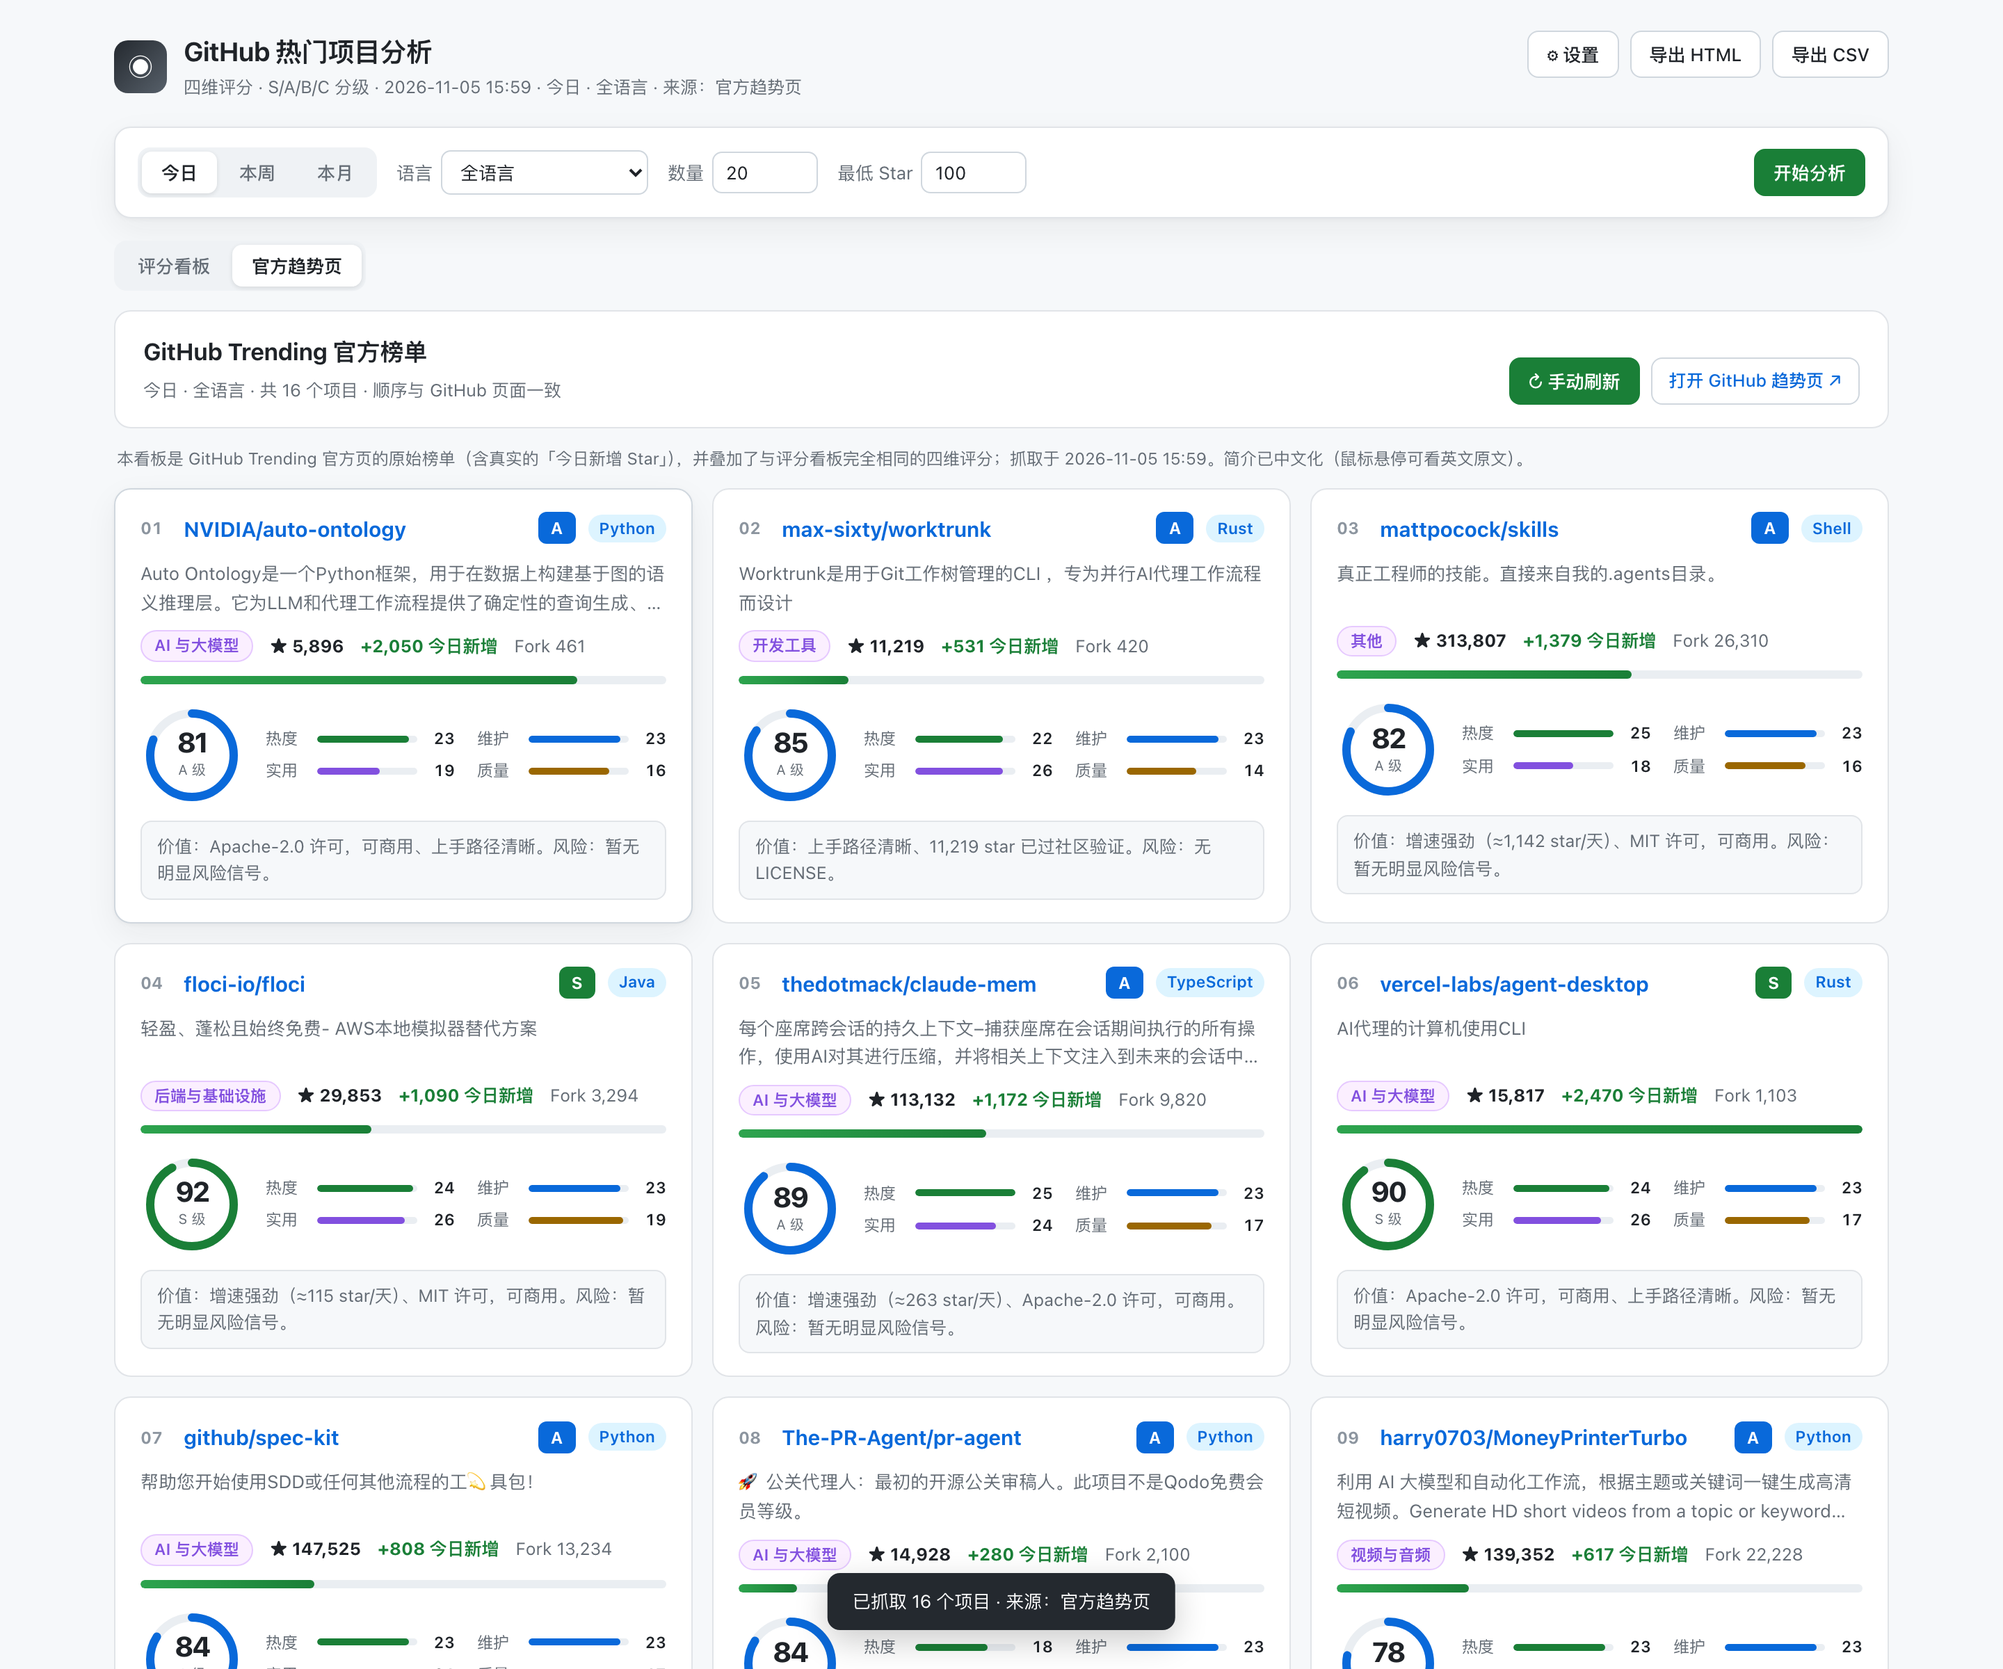
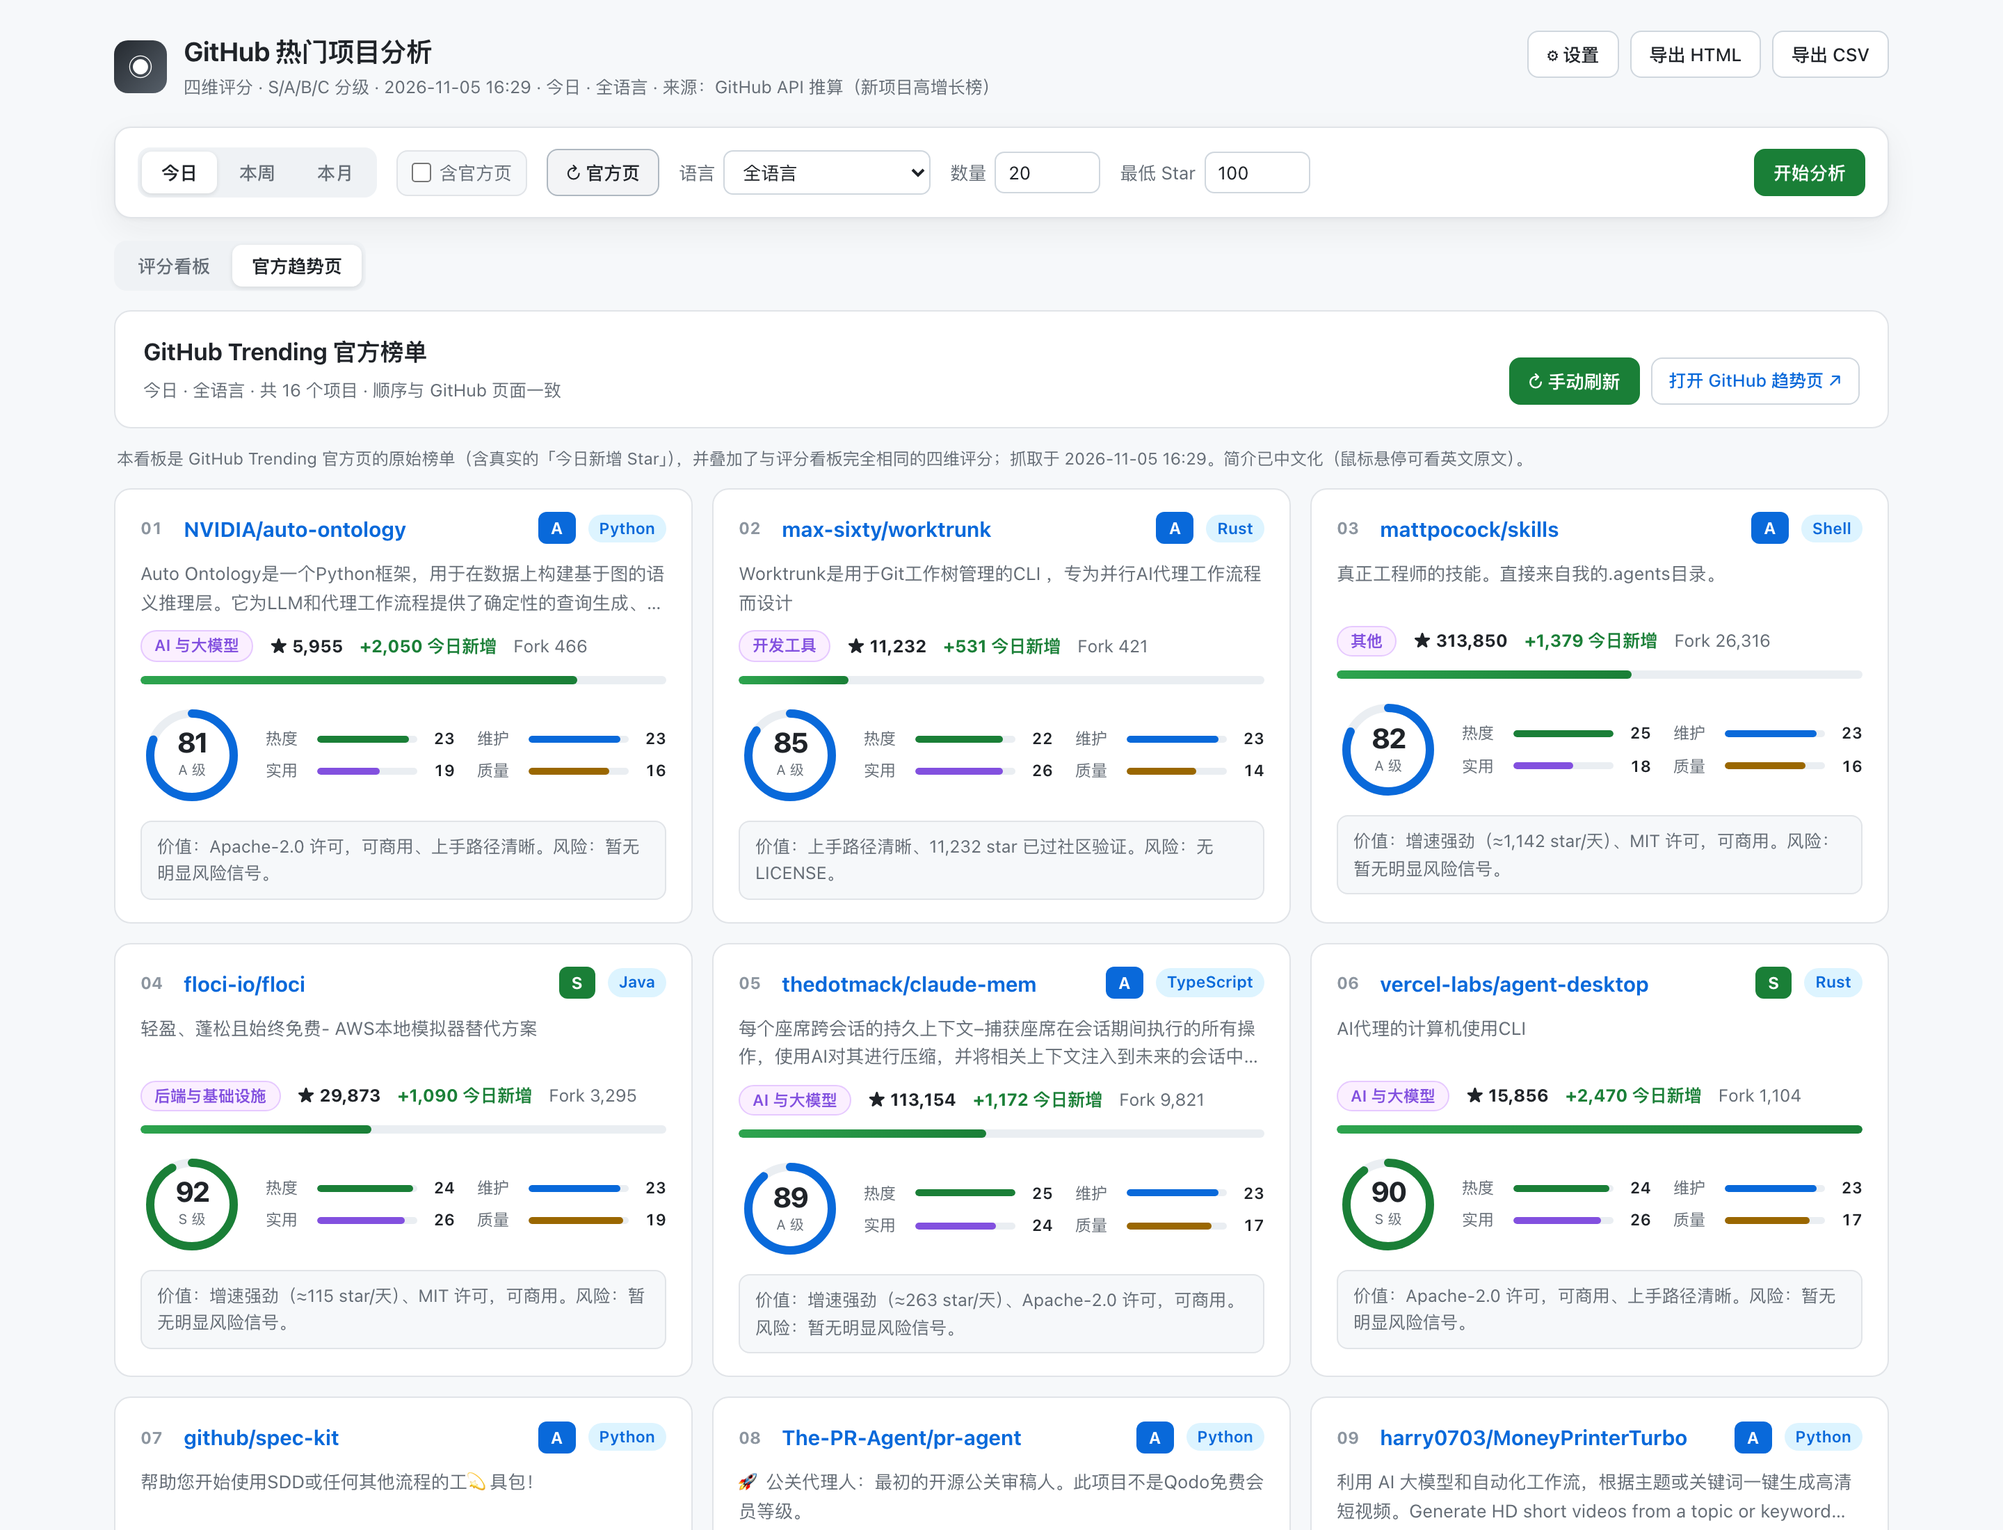
feat(app): 分析结果持久化 + 官方页开关与顶部独立刷新按钮
- 分析结果写入 cache/last-result.json，重开应用自动恢复上次结果与所在视图
- 新增 GET /api/last，导出按钮随恢复结果一并可用
- 周期旁新增「含官方页」开关：关闭时本次分析跳过官方页、直接 API 推算评分
- 周期旁新增「↻ 官方页」按钮：单独只刷新官方榜单，复用已有评分，自动切到官方视图
- official_skipped 状态单独标注，缓存快照不再被误报成"刷新失败"
- 开关、视图等偏好持久化；GET 备用通道同步传递开关值
- README 与预览图更新；发布前完成脱敏

同步前已完成脱敏：移除个人绝对路径与本地环境描述

diff --git a/app/templates/index.html b/app/templates/index.html
@@ -44,6 +44,9 @@
   .seg button{border:none;background:transparent;padding:6px 14px;border-radius:7px;color:var(--muted);font-weight:500}
   .seg button.on{background:#fff;color:var(--text);font-weight:600;box-shadow:0 1px 3px rgba(27,31,36,.12)}
   .controls label{display:flex;align-items:center;gap:6px;font-size:13px;color:var(--muted)}
+  .off-switch{white-space:nowrap;cursor:pointer;user-select:none;border:1px solid var(--border);
+    background:#f6f8fa;border-radius:8px;padding:5px 10px;color:var(--text)}
+  .off-switch input{width:14px;height:14px;margin:0;accent-color:var(--green);cursor:pointer}
   select,input[type=number],input[type=text],input[type=password]{
     font-family:inherit;font-size:13px;color:var(--text);background:#fff;border:1px solid var(--border-strong);
     border-radius:7px;padding:6px 9px;outline:none}
@@ -199,6 +202,10 @@
       <button data-v="weekly">本周</button>
       <button data-v="monthly">本月</button>
     </div>
+    <label class="off-switch" title="关闭后，点「开始分析」不再抓取官方趋势页，直接用 API 推算评分">
+      <input type="checkbox" id="includeOfficial" checked> 含官方页
+    </label>
+    <button id="btnOfficialTop" title="只刷新官方趋势页（复用已有评分），并自动切到该视图">↻ 官方页</button>
     <label>语言
       <select id="lang">
         <option value="">全语言</option>
@@ -292,13 +299,31 @@ function loadPrefs(){
     if(p.minStars !== undefined) $('#minStars').value = p.minStars;
     if(p.token) $('#token').value = p.token;
     if(p.src) $('#src').value = p.src;
+    if(p.includeOfficial !== undefined) $('#includeOfficial').checked = !!p.includeOfficial;
+    if(p.view === 'official' || p.view === 'board') state.view = p.view;
   }catch(e){}
 }
 function savePrefs(){
   localStorage.setItem(LS, JSON.stringify({
     period: state.period, language: $('#lang').value, limit: $('#limit').value,
-    minStars: $('#minStars').value, token: $('#token').value, src: $('#src').value
+    minStars: $('#minStars').value, token: $('#token').value, src: $('#src').value,
+    includeOfficial: $('#includeOfficial').checked, view: state.view
   }));
+}
+
+/* 启动恢复：把服务端持久化的上一次分析结果直接渲染出来 */
+async function restoreLast(){
+  try{
+    const res = await fetch('/api/last');
+    const d = await res.json();
+    if(!d || d.empty || !Array.isArray(d.items)) return;
+    state.data = d;
+    state.cat = '';
+    $('#btnHtml').disabled = false; $('#btnCsv').disabled = false;
+    [...$('#viewSeg').children].forEach(x=>x.classList.toggle('on', x.dataset.v === state.view));
+    render();
+    toast(`已恢复上次分析（${d.generated_at}）`);
+  }catch(e){ /* 没有历史结果时静默 */ }
 }
 
 /* ---------- 交互 ---------- */
@@ -307,14 +332,17 @@ $('#seg').addEventListener('click', e=>{
   [...$('#seg').children].forEach(x=>x.classList.toggle('on', x===b));
   state.period = b.dataset.v; savePrefs();
 });
+$('#includeOfficial').addEventListener('change', savePrefs);
 $('#viewSeg').addEventListener('click', e=>{
   const b = e.target.closest('button'); if(!b) return;
   [...$('#viewSeg').children].forEach(x=>x.classList.toggle('on', x===b));
   state.view = b.dataset.v;
+  savePrefs();
   render();
 });
-$('#officialPanel').addEventListener('click', async e=>{
-  const btn = e.target.closest('#btnOfficialRefresh'); if(!btn) return;
+
+/* 两个入口共用：只刷新官方榜单，复用已有评分，不重跑评分流程 */
+async function refreshOfficial(btn){
   const old = btn.textContent;
   btn.disabled = true; btn.textContent = '刷新中…';
   try{
@@ -325,14 +353,25 @@ $('#officialPanel').addEventListener('click', async e=>{
       {headers:{'X-GitHub-Token': $('#token').value || ''}});
     const d2 = await res.json();
     if(!res.ok) throw new Error(d2.message || ('HTTP ' + res.status));
-    if(state.data){
-      state.data.official_items = d2.items;
-      state.data.official_fetched_at = d2.fetched_at;
-      state.data.official_stale = d2.stale;
-      state.data.official_url = d2.url;
-      state.data.official_period = d2.period;
-      state.data.official_language = d2.language;
-      if(typeof d2.meta_coverage === 'number') state.data.meta_coverage = d2.meta_coverage;
+    if(!state.data){
+      state.data = {
+        generated_at: d2.fetched_at, period: d2.period,
+        period_label: {daily:'今日', weekly:'本周', monthly:'本月'}[d2.period],
+        language: d2.language, source: 'api', source_label: '官方趋势页（独立刷新）',
+        items: [], readme_coverage: 100, board_meta_coverage: 100, translate_status: 'ok'
+      };
+    }
+    state.data.official_items = d2.items;
+    state.data.official_fetched_at = d2.fetched_at;
+    state.data.official_stale = d2.stale;
+    state.data.official_url = d2.url;
+    state.data.official_period = d2.period;
+    state.data.official_language = d2.language;
+    if(typeof d2.meta_coverage === 'number') state.data.meta_coverage = d2.meta_coverage;
+    if(btn.id === 'btnOfficialTop'){       // 顶部按钮点了直接看结果
+      state.view = 'official';
+      [...$('#viewSeg').children].forEach(x=>x.classList.toggle('on', x.dataset.v === 'official'));
+      savePrefs();
     }
     render();
     toast(d2.message);
@@ -341,7 +380,12 @@ $('#officialPanel').addEventListener('click', async e=>{
   }finally{
     btn.disabled = false; btn.textContent = old;
   }
+}
+$('#officialPanel').addEventListener('click', e=>{
+  const btn = e.target.closest('#btnOfficialRefresh'); if(!btn) return;
+  refreshOfficial(btn);
 });
+$('#btnOfficialTop').addEventListener('click', e=> refreshOfficial(e.currentTarget));
 $('#chips').addEventListener('click', e=>{
   const c = e.target.closest('.chip'); if(!c) return;
   [...$('#chips').children].forEach(x=>x.classList.toggle('on', x===c));
@@ -393,7 +437,8 @@ async function run(){
       limit: parseInt($('#limit').value) || 20,
       min_stars: parseInt($('#minStars').value) || 0,
       token: $('#token').value,
-      source: $('#src').value
+      source: $('#src').value,
+      include_official: $('#includeOfficial').checked
     };
     let data;
     try{
@@ -406,7 +451,8 @@ async function run(){
       // POST 被拦截或失败时，自动走 GET 备用通道
       const qs = new URLSearchParams({
         period: body.period, language: body.language, limit: body.limit,
-        min_stars: body.min_stars, source: body.source
+        min_stars: body.min_stars, source: body.source,
+        include_official: body.include_official ? 1 : 0
       });
       const res2 = await fetch('/api/analyze?' + qs, {headers:{'X-GitHub-Token': body.token || ''}});
       const d2 = await res2.json();
@@ -498,9 +544,12 @@ function renderOfficial(d){
     </div>`;
     return;
   }
-  const staleNote = d.official_stale
+  const staleNote = (d.official_skipped && d.official_stale)
     ? `<div class="official-note" style="color:var(--amber);background:var(--amber-soft);border:1px solid #eac54f;
-        border-radius:8px;padding:8px 12px">本次实时刷新失败，以下为缓存于 ${escapeHtml(d.official_fetched_at || '未知时间')} 的官方榜单快照。可点「手动刷新」重试。</div>`
+        border-radius:8px;padding:8px 12px">本次分析未抓取官方趋势页（「含官方页」已关闭），以下为缓存于 ${escapeHtml(d.official_fetched_at || '未知时间')} 的快照。开启开关重新分析，或点「↻ 官方页」单独刷新即可取最新数据。</div>`
+    : d.official_stale
+    ? `<div class="official-note" style="color:var(--amber);background:var(--amber-soft);border:1px solid #eac54f;
+        border-radius:8px;padding:8px 12px">本次实时刷新失败，以下为缓存于 ${escapeHtml(d.official_fetched_at || '未知时间')} 的官方榜单快照。可点「↻ 官方页」重试。</div>`
     : `<div class="official-note">本看板是 GitHub Trending 官方页的原始榜单（含真实的「${label}新增 Star」），并叠加了与评分看板完全相同的四维评分；抓取于 ${escapeHtml(d.official_fetched_at || '本次分析')}。简介已中文化（鼠标悬停可看英文原文）。</div>`;
 
   const maxDelta = Math.max(1, ...items.map(i=> i.stars_period || 0));
@@ -655,7 +704,9 @@ function render(){
 }
 
 loadPrefs();
+[...$('#viewSeg').children].forEach(x=>x.classList.toggle('on', x.dataset.v === state.view));
 render();
+restoreLast();
 </script>
 </body>
 </html>

diff --git a/app/app.py b/app/app.py
@@ -4,6 +4,7 @@
 
 import csv
 import io
+import json
 import os
 import sys
 
@@ -15,7 +16,40 @@ import core  # noqa: E402
 app = Flask(__name__, template_folder="templates", static_folder="static")
 app.config["JSON_AS_ASCII"] = False
 
-LAST = {"result": None}
+LAST_FILE = os.path.join(os.path.dirname(os.path.abspath(__file__)), "cache", "last-result.json")
+
+
+def _load_last():
+    """启动时恢复上一次分析结果；文件损坏或版本不匹配时安全忽略。"""
+    try:
+        with open(LAST_FILE, "r", encoding="utf-8") as f:
+            data = json.load(f)
+        if isinstance(data, dict) and isinstance(data.get("items"), list):
+            return data
+    except Exception:
+        pass
+    return None
+
+
+def _save_last(result):
+    try:
+        os.makedirs(os.path.dirname(LAST_FILE), exist_ok=True)
+        tmp = LAST_FILE + ".tmp"
+        with open(tmp, "w", encoding="utf-8") as f:
+            json.dump(result, f, ensure_ascii=False)
+        os.replace(tmp, LAST_FILE)
+    except Exception:
+        pass
+
+
+LAST = {"result": _load_last()}
+
+
+@app.get("/api/last")
+def api_last():
+    """前端启动时拉取上次结果，重开应用即可看到上一次分析。"""
+    r = LAST["result"]
+    return jsonify(r) if r else jsonify({"empty": True})
 
 
 @app.route("/")
@@ -39,6 +73,7 @@ def api_analyze_get():
         "min_stars": request.args.get("min_stars", 100),
         "source": request.args.get("source", "auto"),
         "translate": request.args.get("translate", "1") != "0",
+        "include_official": request.args.get("include_official", "1") != "0",
         "token": request.headers.get("X-GitHub-Token", ""),
     }
     return _do_analyze(p)
@@ -63,6 +98,7 @@ def _do_analyze(p: dict):
             token=(p.get("token") or "").strip(),
             source=p.get("source", "auto"),
             translate=bool(p.get("translate", True)),
+            include_official=bool(p.get("include_official", True)),
         )
     except Exception as e:  # 网络/限流等异常统一回传，不静默失败
         return jsonify({"error": f"抓取失败：{type(e).__name__} — {e}"}), 502
@@ -71,6 +107,7 @@ def _do_analyze(p: dict):
         return jsonify(result), 502
 
     LAST["result"] = result
+    _save_last(result)
     return jsonify(result)
 
 
@@ -128,14 +165,23 @@ def official_refresh():
     core.meta_coverage(reset=True)
     res["items"] = core.attach_scores(res["items"], prior, period, token)
     res["meta_coverage"] = core.meta_coverage_from_items(res["items"])
-    if LAST["result"] is not None:
-        LAST["result"]["official_items"] = res["items"]
-        LAST["result"]["official_fetched_at"] = res["fetched_at"]
-        LAST["result"]["official_stale"] = res["stale"]
-        LAST["result"]["official_url"] = res["url"]
-        LAST["result"]["official_period"] = res["period"]
-        LAST["result"]["official_language"] = res["language"]
-        LAST["result"]["meta_coverage"] = res["meta_coverage"]
+    if LAST["result"] is None:      # 首次就单独刷新：也留一份可恢复的结果
+        LAST["result"] = {
+            "generated_at": res["fetched_at"], "period": period,
+            "period_label": core.PERIOD_LABEL[period],
+            "language": res["language"], "source": "api",
+            "source_label": "官方趋势页（独立刷新）", "items": [],
+            "readme_coverage": 100, "board_meta_coverage": 100,
+            "translate_status": "ok",
+        }
+    LAST["result"]["official_items"] = res["items"]
+    LAST["result"]["official_fetched_at"] = res["fetched_at"]
+    LAST["result"]["official_stale"] = res["stale"]
+    LAST["result"]["official_url"] = res["url"]
+    LAST["result"]["official_period"] = res["period"]
+    LAST["result"]["official_language"] = res["language"]
+    LAST["result"]["meta_coverage"] = res["meta_coverage"]
+    _save_last(LAST["result"])
     return jsonify(res)
 
 

diff --git a/app/core.py b/app/core.py
@@ -693,7 +693,7 @@ def attach_scores(items: list, scored: list, period: str = "daily", token: str =
 
 def analyze(period: str = "daily", language: str = "", limit: int = 20,
             min_stars: int = 100, token: str = "", source: str = "auto",
-            translate: bool = True) -> dict:
+            translate: bool = True, include_official: bool = True) -> dict:
     session = _session(token)
     _raw_fails[0] = 0
     _api_quota_hit.clear()
@@ -703,6 +703,9 @@ def analyze(period: str = "daily", language: str = "", limit: int = 20,
     official_raw: list = []
     official_fetched_at = ""
     official_stale = False
+    official_skipped = not include_official
+    if official_skipped:
+        source = "api"                # 用户关掉「含官方页」：本次不抓官方页，直接用 API 推算评分
     official_url = (f"https://github.com/trending"
                     + (f"/{language.lower()}" if language else "")
                     + {"daily": "", "weekly": "?since=weekly", "monthly": "?since=monthly"}[period])
@@ -798,6 +801,7 @@ def analyze(period: str = "daily", language: str = "", limit: int = 20,
         "official_items": official_raw,
         "official_fetched_at": official_fetched_at,
         "official_stale": official_stale,
+        "official_skipped": official_skipped,
         "official_period": period,
         "official_language": language or "全语言",
         "official_url": official_url,
